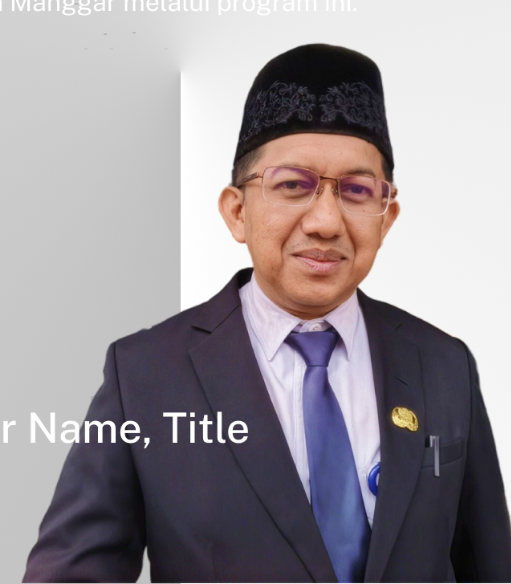
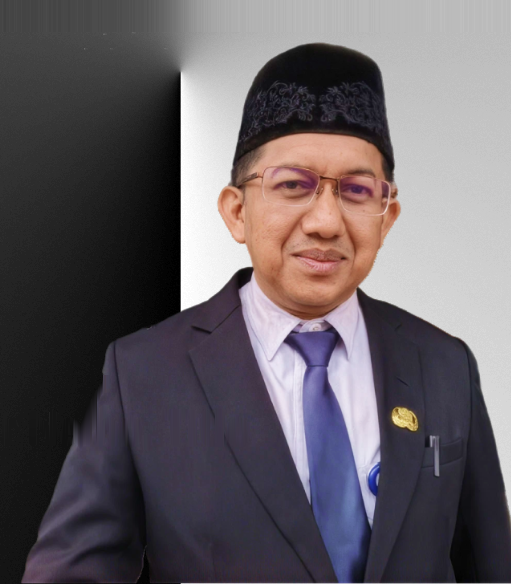
fix(frontend): enforce symmetric 2x2 flex layout on StatCard and clean Lurah photo (#71)
- Fix StatCard.vue layout to strictly enforce 2x2 symmetrical flex columns on mobile and tablet without awkward 3+1 wrapping or column misalignment
- Maintain sweet-spot typography and sizing on tablet and responsive 4-across layout on desktop
- Clean up embedded watermark/mockup text artifacts from lurah_placeholder_sample.png
- Position official name, agency title, and role badge cleanly below circular avatar with high-contrast styling

diff --git a/frontend/src/views/TentangKelurahanManggarView.vue b/frontend/src/views/TentangKelurahanManggarView.vue
@@ -251,7 +251,7 @@ const batasWilayah = [
         <div
           class="mt-5 flex flex-col items-center gap-6 rounded-btn border border-gray-300 bg-white p-5 sm:flex-row sm:items-start sm:p-6"
         >
-          <div class="shrink-0 text-center">
+          <div class="flex shrink-0 flex-col items-center text-center sm:w-56">
             <div class="h-40 w-40 overflow-hidden rounded-full bg-brand-cyan sm:h-48 sm:w-48">
               <img
                 :src="lurahPhoto"
@@ -259,20 +259,20 @@ const batasWilayah = [
                 class="h-40 w-40 object-cover object-top sm:h-48 sm:w-48"
               />
             </div>
-            <span
-              class="mt-3 inline-block rounded-[5px] bg-brand-cyan px-3 py-1 text-sm font-medium text-brand-navy"
-            >
-              Kepala Kelurahan
-            </span>
-          </div>
-
-          <div class="space-y-4 text-left">
-            <div>
+            <!-- Name & Title below the photo -->
+            <div class="mt-4 flex flex-col items-center text-center">
               <h3 class="text-lg font-bold text-brand-navy">Lurah Kelurahan Manggar</h3>
               <!-- TODO: Masukkan nama definitif dan NIP Lurah Manggar setelah SK resmi diperoleh -->
-              <p class="text-sm text-gray-600">Pemerintah Kelurahan Manggar, Balikpapan Timur</p>
+              <p class="mt-0.5 text-sm text-gray-600">Pemerintah Kelurahan Manggar</p>
+              <span
+                class="mt-2.5 inline-block rounded-[5px] bg-brand-cyan px-3 py-1 text-sm font-medium text-brand-navy"
+              >
+                Kepala Kelurahan
+              </span>
             </div>
+          </div>
 
+          <div class="flex-1 space-y-4 text-left">
             <div class="space-y-3 text-base leading-relaxed text-gray-800">
               <p>
                 Sebagai garda terdepan pelayanan pemerintah daerah bagi masyarakat di wilayah
@@ -281,15 +281,15 @@ const batasWilayah = [
               </p>
               <p>
                 Melalui integrasi program
-                <strong>Kelurahan Cinta Statistik (Desa Cantik)</strong> serta peluncuran portal
-                <strong>SIDATA</strong>, kami berikhtiar membangun tata kelola berbasis data akurat
+                <strong class="font-semibold text-brand-navy">Kelurahan Cinta Statistik (Desa Cantik)</strong> serta peluncuran portal
+                <strong class="font-semibold text-brand-navy">SIDATA</strong>, kami berikhtiar membangun tata kelola berbasis data akurat
                 bersama 100 Rukun Tetangga (RT). Data yang tepat menjadi kompas kami dalam
                 merencanakan program sosial, penanganan lingkungan, serta pemulihan ekonomi
                 masyarakat yang berkelanjutan.
               </p>
             </div>
 
-            <div class="text-sm text-gray-600">
+            <div class="border-t border-gray-200 pt-3 text-sm text-gray-600">
               <p class="font-medium text-brand-navy">Masa Bakti Jabatan</p>
               <p>Periode Berjalan &mdash; Kelurahan Manggar, Balikpapan Timur</p>
               <!-- TODO: Perbarui informasi masa bakti jika telah tersedia surat keputusan resmi -->

diff --git a/frontend/src/components/common/StatCard.vue b/frontend/src/components/common/StatCard.vue
@@ -62,8 +62,8 @@ const listClasses = computed(() => {
   }
   const count = displayedItems.value.length;
   if (count === 4) {
-    // 2x2 symmetric layout on mobile & tablet using flexbox, transitioning to 4-across on desktop
-    return 'flex flex-wrap items-start justify-center gap-x-6 gap-y-7 sm:gap-x-10 sm:gap-y-8 lg:flex-nowrap lg:justify-between lg:gap-x-8 text-center';
+    // Symmetrical 2x2 layout on mobile & tablet, expanding to 4-across on desktop
+    return 'flex flex-wrap items-stretch justify-between gap-y-7 sm:gap-y-8 lg:flex-nowrap lg:gap-x-6 text-center';
   }
   if (count === 3) {
     return 'flex flex-wrap items-start justify-center gap-6 sm:flex-nowrap sm:gap-8 text-center max-w-3xl mx-auto';
@@ -78,16 +78,16 @@ const listClasses = computed(() => {
 const itemClasses = computed(() => {
   const count = displayedItems.value.length;
   if (count === 4) {
-    // 2 items per row on mobile & tablet: (50% - half-gap), expanding to 4-across (flex-1) on desktop
-    return 'flex flex-col items-center text-center w-[calc(50%-12px)] sm:w-[calc(50%-20px)] lg:w-auto lg:flex-1 max-w-[260px] sm:max-w-[320px] lg:max-w-none mx-auto';
+    // Exactly 2 items per row on mobile & tablet: w-[calc(50%-12px)] sm:w-[calc(50%-16px)] with flex-none shrink-0, expanding to 4-across (flex-1) on desktop (lg)
+    return 'flex flex-col items-center text-center flex-none shrink-0 w-[calc(50%-12px)] sm:w-[calc(50%-16px)] lg:w-auto lg:flex-1 lg:shrink';
   }
   if (count === 3) {
-    return 'flex flex-col items-center text-center w-full sm:w-auto sm:flex-1 max-w-[260px] sm:max-w-none mx-auto';
+    return 'flex flex-col items-center text-center w-full sm:w-auto sm:flex-1 mx-auto';
   }
   if (count === 2) {
-    return 'flex flex-col items-center text-center w-[calc(50%-12px)] sm:w-[calc(50%-20px)] sm:flex-1 max-w-[260px] sm:max-w-none mx-auto';
+    return 'flex flex-col items-center text-center w-[calc(50%-12px)] sm:w-[calc(50%-20px)] sm:flex-1 mx-auto';
   }
-  return 'flex flex-col items-center text-center w-full max-w-[260px] sm:max-w-none flex-1 mx-auto';
+  return 'flex flex-col items-center text-center w-full flex-1 mx-auto';
 });
 
 // Variant styling classes
@@ -231,7 +231,7 @@ const variantClasses = computed(() => {
 
         <!-- Description Term (<dt>): Stat Label Description (precedes <dd> in DOM for screen readers) -->
         <dt
-          class="order-2 mt-1.5 w-full max-w-[160px] text-xs leading-snug whitespace-pre-line sm:max-w-[220px] sm:text-sm lg:max-w-none"
+          class="order-2 mt-1.5 w-full max-w-[200px] text-xs leading-snug whitespace-pre-line sm:max-w-[260px] sm:text-sm lg:max-w-none"
           :class="variant === 'light' ? 'font-medium text-slate-600' : 'font-normal text-slate-200'"
           data-test="stat-label"
         >
